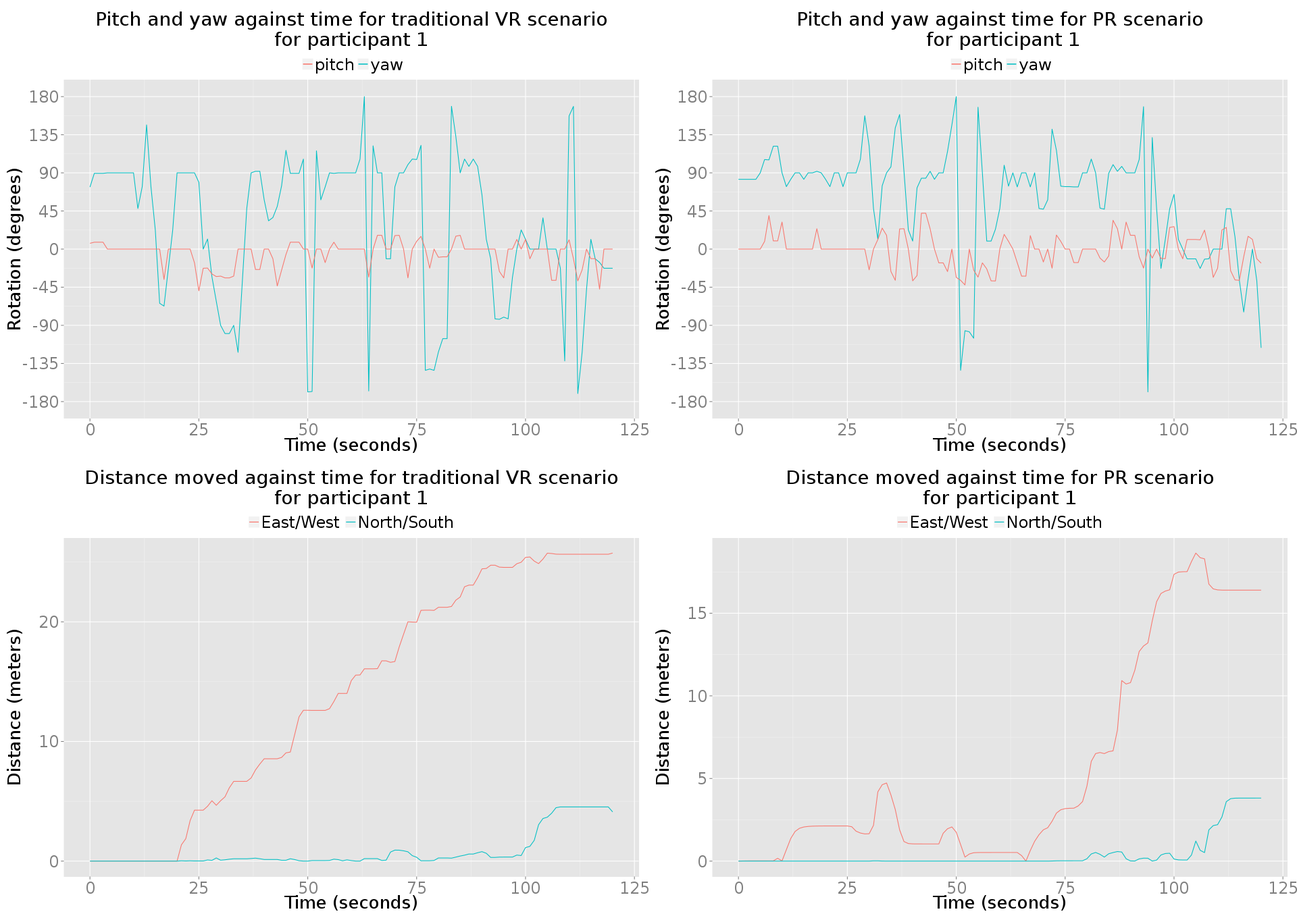
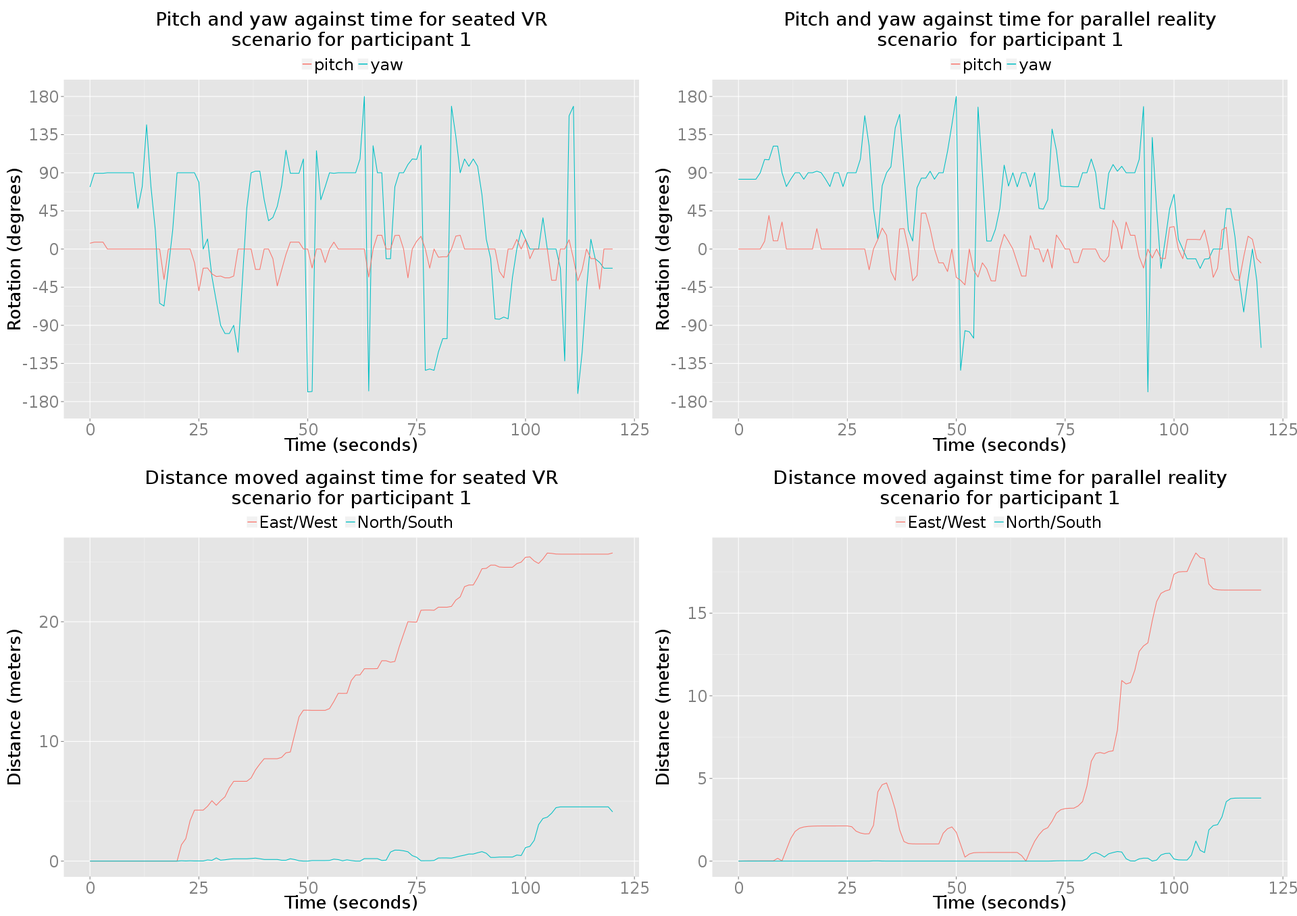
Red pen edits to end of chapter 5.

diff --git a/06_mirrorshades_studies_results/mirrorshades_studies_results.tex b/06_mirrorshades_studies_results/mirrorshades_studies_results.tex
@@ -191,18 +191,18 @@ With regards to movement in the parallel reality scenario, the accuracy and espe
 
 \subsection{Log Data}
 
-For the traditional VR scenario log data were recorded while each participant was engaging with the VR chapel in a seated position and using the Xbox controller to navigate the VR environment. For the parallel reality scenario log data were recorded throughout the whole scenario, such that data are available for both the periods in which participants were observing the RW chapel via the DK1 and cameras in addition to the periods in which participants were observing the VR chapel. As such, several comparisons can be made between these sets of data in addition to considering the data as a whole. Within the parallel reality scenario, comparisons can be made between the periods that participants were observing RW and the periods that participants were observing VR. Between the traditional VR scenario and the parallel reality scenario, comparisons can be made between the VR section of the traditional VR scenario and the periods that participants were observing VR in the parallel reality scenario. Log data were not captured for participant 2, nor were they captured for the traditional VR scenario for participant 5.
+For the seated VR scenario log data were recorded while each participant was engaging with the VR chapel in the seated position and using the Xbox controller to navigate the VR environment. For the parallel reality scenario log data were recorded throughout the whole scenario, such that data are available for both the periods in which they were observing the RW chapel via the DK1 and cameras in addition to the periods in which participants were observing the VR chapel. As such, several comparisons can be made between these sets of data in addition to considering the data as a whole. Within the parallel reality scenario, comparisons can be made between the periods that participants were observing RW and the periods that they were observing VR. Between the seated VR scenario and the parallel reality scenario, comparisons can be made between the VR section of the seated VR scenario and the periods that participants were observing VR in the parallel reality scenario. Log data were not captured for participant 2, nor were they captured for the seated VR scenario for participant 5.
 
 %It was expected that the cumbersome nature of the parallel reality scenario in terms of the hardware that needed to be carried by the participant and the reduced quality of viewing the RW environment via the cameras would have a noticeable restrictive effect upon participants' movement (both in terms of their position and the orientation of their head) in the parallel reality scenario compared to the VR section of the traditional VR scenario, which would be evident from these log data.
 
 \subsubsection{Comparing traditional and parallel reality scenarios}
 
-When looking at either scenario's data (the VR section of the traditional VR scenario and both RW and VR periods of the parallel reality scenario) it is immediately evident that participants looked to their sides and turned their heads horizontally (yaw) far more than they looked above and beneath themselves by tilting their heads vertically (pitch). This relationship is shown in figures \ref{1_pitch_yaw_2up.png}, \ref{4_pitch_yaw_2up.png} and \ref{6_pitch_yaw_2up.png}, which show pitch and yaw plotted against time for both the traditional VR scenario and the parallel reality scenario, for participants 1, 4 and 6 respectively. With the traditional VR scenario on the left of each pair of plots and the parallel reality scenario on the right, the displacement of the blue line representing yaw is substantially greater in both than the displacement of the red line representing yaw.
+When looking at either scenario's data (the VR section of the seated VR scenario and both RW and VR periods of the parallel reality scenario) it is immediately evident that participants looked to their sides and turned their heads horizontally (yaw) far more than they looked above and beneath themselves by tilting their heads vertically (pitch). This relationship is shown in figures \ref{1_pitch_yaw_2up.png}, \ref{4_pitch_yaw_2up.png} and \ref{6_pitch_yaw_2up.png}, which show pitch and yaw plotted against time for both the seated VR scenario and the parallel reality scenario, for participants 1, 4 and 6 respectively. With the seated VR scenario on the left of each pair of plots and the parallel reality scenario on the right, the displacement of the blue line representing yaw is substantially greater in both than the displacement of the red line representing yaw.
 
 \begin{figure}
 	\begin{center}
 	\includegraphics[width=\textwidth]{1/1_pitch_yaw_2up.png}
-	\caption{Pitch and yaw against time for participant 1 in traditional VR and parallel reality scenarios.}
+	\caption{Pitch and yaw against time for participant 1 in seated VR and parallel reality scenarios.}
 	\label{1_pitch_yaw_2up.png}
 	\end{center}
 \end{figure}
@@ -210,7 +210,7 @@ When looking at either scenario's data (the VR section of the traditional VR sce
 \begin{figure}
 	\begin{center}
 	\includegraphics[width=\textwidth]{1/4_pitch_yaw_2up.png}
-	\caption{Pitch and yaw against time for participant 4 in traditional VR and parallel reality scenarios.}
+	\caption{Pitch and yaw against time for participant 4 in seated VR and parallel reality scenarios.}
 	\label{4_pitch_yaw_2up.png}
 	\end{center}
 \end{figure}
@@ -218,12 +218,12 @@ When looking at either scenario's data (the VR section of the traditional VR sce
 \begin{figure}
 	\begin{center}
 	\includegraphics[width=\textwidth]{1/6_pitch_yaw_2up.png}
-	\caption{Pitch and yaw against time for participant 6 in traditional VR and parallel reality scenarios.}
+	\caption{Pitch and yaw against time for participant 6 in seated VR and parallel reality scenarios.}
 	\label{6_pitch_yaw_2up.png}
 	\end{center}
 \end{figure}
 
-This relationship is reflected in calculations of the standard deviation in pitch and yaw across both scenarios, shown by table \ref{sdpitchyawtrad} for the traditional VR scenario and table \ref{sdpitchyawpr} for the parallel reality scenario. For every participant for which the data are available, the standard deviation in yaw is substantially higher than that in pitch. This relationship can largely be explained by the simple fact that there is more to observe in the chapel(s) at ground level than above eye level or down at the ground, however with the marked difference in the appearance of the chapel roof (stone in the VR reconstruction, wood in the RW chapel today) a smaller difference between pitch and yaw variance might have been expected for both scenarios.
+This relationship is reflected in calculations of the standard deviation in pitch and yaw across both scenarios, shown by table \ref{sdpitchyawtrad} for the seated VR scenario and table \ref{sdpitchyawpr} for the parallel reality scenario. For every participant for which the data are available, the standard deviation in yaw is substantially higher than that in pitch. This relationship can largely be explained by the simple fact that there is more to observe in the chapel(s) at ground level than above eye level or down at the ground, however with the marked difference in the appearance of the chapel roof (stone in the VR reconstruction, wood in the RW chapel today) a smaller difference between pitch and yaw variance might have been expected for both scenarios.
 
 \begin{table}
 \begin{center}
@@ -248,7 +248,7 @@ This relationship is reflected in calculations of the standard deviation in pitc
 
 \bottomrule
 \end{tabularx}
-\caption{Standard deviation in pitch and yaw for traditional VR scenario.}
+\caption{Standard deviation in pitch and yaw for seated VR scenario.}
 \label{sdpitchyawtrad}
 \end{center}
 \end{minipage}
@@ -287,11 +287,11 @@ This relationship is reflected in calculations of the standard deviation in pitc
 
 %=====================
 
-When studying plots of head pitch and yaw against time aligned with plots of distance moved against time, some participants display an aversion to large head movements while moving. Considering participant 1 (figure \ref{1_4up.png}), they seem to have been quite comfortable looking around a lot even while moving in the traditional VR scenario, while in the parallel reality scenario their large head movements are close to the periods in which their position was not changing as much\footnote{When looking at these plots it is important to appreciate that lag in the IndoorAtlas data results in a small lateral offset between the position data and the head orientation data, as the latter is unaffected by the lag in the correct reporting and `settling' of the former.}. When looking at the same data plotted for participant 3 however (figure \ref{3_4up.png}), it seems that they were reluctant to perform large head movements while moving in both scenarios, rather than just the parallel reality scenario.
+When studying plots of head pitch and yaw against time aligned with plots of distance moved against time, some participants display an aversion to large head movements while moving. Considering participant 1 (figure \ref{1_4up.png}), they seem to have been quite comfortable looking around a lot even while moving in the seated VR scenario, while in the parallel reality scenario their large head movements are close to the periods in which their position was not changing as much\footnote{When looking at these plots it is important to appreciate that lag in the IndoorAtlas data results in a small lateral offset between the position data and the head orientation data, as the latter is unaffected by the lag in the correct reporting and `settling' of the former.}. When looking at the same data plotted for participant 3 however (figure \ref{3_4up.png}), it seems that they were reluctant to perform large head movements while moving in both scenarios, rather than just the parallel reality scenario.
 
-Reluctance to changing head orientation when moving in the traditional VR scenario can be explained by something as simple as participant 1 having more experience with video games that present the user with a `first person' perspective in which movement and looking direction are controlled independently. For somebody familiar with this style of control, it is second nature to use one control to change their position whilst simultaneously using another control to change the direction in which they are looking, however for those unfamiliar or inexperienced with such scenarios it is common to observe alternation between movement and looking, something that the OVW group has observed in people interacting with virtual content at various demonstrations using keyboard and mouse, Xbox controller and other control methodologies. For first person shooter (FPS) video games, this simultaneous independent control of head and body is commonly achieved by using keyboard buttons to control body movement while using a mouse to control looking direction or the two separate control sticks of a controller such as an Xbox controller; with the traditional VR scenario, the Xbox controller provides control over movement while the head tracker in the DK1 provides control over looking direction by tracking head orientation.
+Reluctance to changing head orientation when moving in the seated VR scenario can possibly be explained by something as simple as participant 1 having more experience with video games that present the user with a `first person' perspective in which movement and looking direction are controlled independently. For somebody familiar with this style of control, it is second nature to use one control to change their position whilst simultaneously using another control to change the direction in which they are looking, however for those unfamiliar or inexperienced with such scenarios it is common to observe alternation between movement and looking, something that the OVW group has observed in people interacting with virtual content at various demonstrations using keyboard and mouse, Xbox controller and other control methodologies. For first person shooter (FPS) video games, this simultaneous independent control of head and body is commonly achieved by using keyboard buttons to control body movement while using a mouse to control looking direction, or by using the two separate control sticks of a controller such as an Xbox controller. With the seated VR scenario, the Xbox controller provides control over movement while the head tracker in the DK1 provides control over looking direction by tracking head orientation.
 
-Reluctance to changing head orientation when moving in the parallel reality scenario is most logically explained by participants feeling as though with the reduced visual acuity of their RW environment and the discrepancy in position and environmental objects of their VR environment that they needed to pay more conscious attention to their walking, lest they lose their footing. Upon reaching a location of particular interest and standing still, their willingness to perform larger head movements returns.
+Reluctance to changing head orientation when moving in the parallel reality scenario is most logically explained by participants feeling as though with the reduced visual acuity of their RW environment and the discrepancy in position and environmental objects of their VR environment that they needed to pay more conscious attention to their walking, lest they lose their footing. Upon reaching a location of particular interest and standing still, their willingness to perform larger head movements returns as they no longer have to contend with obstacle avoidance.
 
 \begin{figure}
 	\begin{center}
@@ -311,7 +311,7 @@ Reluctance to changing head orientation when moving in the parallel reality scen
 
 \subsubsection{Comparing RW and VR periods within parallel reality scenario}
 
-When comparing pitch and yaw data between the RW and VR periods within the parallel reality scenario, it is notable that for some participants there was more variance in the periods in which they were perceiving VR stimuli than in those in which they were perceiving RW stimuli, meaning that they turned their head more when looking at the VR environment than when looking at the RW environment. This is particularly evident when plotting these pitch and yaw data against time with the periods of RW/VR indicated. Figure \ref{1_pitch_yaw.png} shows the pitch and yaw data for participant 1 during the parallel reality scenario, who prominently displayed this tendency toward greater head movement while viewing VR than RW. The coloured background of the plot indicates which environment the participant was perceiving at that time index; blue for RW and green for VR. Correlation is evident between the most pronounced changes in yaw (red line) and the periods that the participant was observing VR stimuli (green background).
+When comparing pitch and yaw data between the RW and VR periods within the parallel reality scenario, it is notable that for some participants there was more variance in the periods in which they were perceiving VR stimuli than in those in which they were perceiving RW stimuli, meaning that they turned their heads more when looking at the VR environment than when looking at the RW environment. This is particularly evident when plotting these pitch and yaw data against time with the periods of RW/VR indicated. Figure \ref{1_pitch_yaw.png} shows the pitch and yaw data for participant 1 during the parallel reality scenario, who prominently displayed this tendency toward greater head movement while viewing VR than RW. The coloured background of the plot indicates which environment the participant was perceiving at that time index; blue for RW and green for VR. Correlation is evident between the most pronounced changes in yaw (red line) and the periods that the participant was observing VR stimuli (green background). As can be seen in figure \ref{3_pitch_yaw.png} this relationship is even more prevalent in the data from participant 3, while the data from participant 5 in figure \ref{5_pitch_yaw.png} still show the relationship but to a lesser extent.
 
 \begin{figure}[h]
 	\begin{center}
@@ -320,8 +320,6 @@ When comparing pitch and yaw data between the RW and VR periods within the paral
 	\label{1_pitch_yaw.png}
 	\end{center}
 \end{figure}
-
-As can be seen in figure \ref{3_pitch_yaw.png} this relationship is even more prevalent in the data from participant 3, while the data from participant 5 in figure \ref{5_pitch_yaw.png} still show the relationship but to a lesser extent.
 
 \begin{figure}[h]
 	\begin{center}
@@ -339,7 +337,7 @@ As can be seen in figure \ref{3_pitch_yaw.png} this relationship is even more pr
 	\end{center}
 \end{figure}
 
-Calculating the mean standard deviation in yaw for both RW and VR periods, weighted by the duration of the periods, shows this relationship more analytically. With reference to the figures in table \ref{sdyawtab} the mean standard deviation in yaw while perceiving VR stimuli is higher than while perceiving RW stimuli for participant 1 (39.887\textdegree\ compared to 25.545\textdegree) and even more so for participant 3 (60.636\textdegree\ compared to 11.702\textdegree). The values are closer for participant 5, due to the initial large delta in yaw just before the first transition into VR at around 130 seconds. Recalculating the weighted mean standard deviation from 150 seconds onwards to exclude this peak gives rise to the values of 36.074\textdegree\ for VR stimuli compared to 17.046\textdegree\ for RW stimuli, which is more in fitting with the impressions drawn from studying figure \ref{5_pitch_yaw.png}. The exception to this observation is participant 4, however this participant displayed very restricted head movement throughout both scenarios when compared to all of the other participants.
+Calculating the mean standard deviation in yaw for both RW and VR periods, weighted by the duration of the periods, shows this relationship more analytically. With reference to the figures in table \ref{sdyawtab} the mean standard deviation in yaw while perceiving VR stimuli is higher than while perceiving RW stimuli for participant 1 (39.887\textdegree\ compared to 25.545\textdegree) and even more so for participant 3 (60.636\textdegree\ compared to 11.702\textdegree). The values are closer for participant 5, due to the initial large delta in yaw just before the first transition into VR at around 130 seconds. Recalculating the weighted mean standard deviation from 150 seconds onwards to exclude this peak gives rise to the values of 36.074\textdegree\ for VR stimuli compared to 17.046\textdegree\ for RW stimuli, which is more in fitting with the impressions drawn from studying figure \ref{5_pitch_yaw.png}. The exception to this observation of correlation between head movement and environment is participant 4, however this participant displayed very restricted head movement throughout both scenarios when compared to all of the other participants.
 
 \begin{table}
 \begin{center}
@@ -401,23 +399,23 @@ Calculating the mean standard deviation in yaw for both RW and VR periods, weigh
 \end{center}
 \end{table}
 
-Also, when considering the amount of time spent perceiving each environment in the parallel reality scenario, several of the participants showed frequent transitioning behaviour, where they would perform many transitions and remain perceiving the visual stimuli from each environment for only a few seconds: for participants 1, 4 and 6, the mean times for both RW and VR periods are all between 1.68 and 3.4 seconds. Participant 3 spent longer perceiving each environment with a RW mean of 18.2 seconds and a VR mean of 7 seconds. The outlier is participant 5, with a RW mean of 31.8 seconds and a VR mean of 3.6 seconds; this was the participant who found it uncomfortable to walk while wearing the DK1, so a much longer amount of time spent perceiving RW stimuli is understandable.
+When considering the amount of time spent perceiving each environment in the parallel reality scenario, several of the participants showed frequent transitioning behaviour where they would perform many transitions and remain perceiving the visual stimuli from each environment for only a few seconds: for participants 1, 4 and 6, the mean times for both RW and VR periods are all between 1.68 and 3.4 seconds. Participant 3 spent longer perceiving each environment with a RW mean of 18.2 seconds and a VR mean of 7 seconds. The outlier is participant 5, with a RW mean of 31.8 seconds and a VR mean of 3.6 seconds; this was the participant who found it uncomfortable to walk while wearing the DK1, so a much longer amount of time spent perceiving RW stimuli is understandable.
 
-\subsubsection{Comparing VR periods of parallel reality scenario to VR section of traditional VR scenario}
+\subsubsection{Comparing VR periods of parallel reality scenario to VR section of seated VR scenario}
 
-Comparing yaw from the VR periods of the parallel reality scenario (table \ref{sdyawtab}) against yaw from the traditional VR scenario (table \ref{sdpitchyawtrad}) it can be seen that in most cases there is a noticeably less yaw change in the VR periods of the parallel reality scenario than in the traditional VR scenario, leading to the conclusion that participants felt more comfortable to perform larger head movements when seated with the DK1 than when standing/walking with the DK1. Observations of participants while they performed the traditional VR scenario support this conclusion with several participants twisting their heads right around to look behind them without changing their direction of their virtual `movement', while when walking in the parallel reality scenario they tended to largely look ahead and perform larger orientation changes by instead turning their whole body before walking in the return direction.
+Comparing yaw from the VR periods of the parallel reality scenario (table \ref{sdyawtab}) against yaw from the seated VR scenario (table \ref{sdpitchyawtrad}) it can be seen that in most cases there is noticeably less yaw change in the VR periods of the parallel reality scenario than in the seated VR scenario, indicating that participants felt more comfortable to perform larger head movements when seated with the DK1 than when standing/walking with it. Observations of participants while they performed the seated VR scenario support this conclusion with several participants twisting their heads right around to look behind them without changing their direction of their virtual `movement', while when walking in the parallel reality scenario participants tended to largely look ahead in the direction their body was facing, performing larger orientation changes by instead turning their whole body before walking in the return direction. As participants were restricted from reorienting their physical body during the VR section of the seated VR scenario (their chair did not swivel) this combined with participants dislike to turning their virtual body with the controller's stick explains why they might perform much larger head movements.
 
-Further comparing head movements between the VR section of the traditional VR scenario and the VR periods of the parallel reality scenario, the difference between the magnitude of pitch and yaw is greater in the VR section of the traditional VR scenario than in the VR periods of the parallel reality scenario. Comparing these values from tables \ref{sdpitchyawtrad}, \ref{sdpitchyawpr} and \ref{sdpitchyawtrad} this difference exhibits as smaller variance in yaw and roughly unchanged (only slightly increased) variance in pitch for the VR periods of the parallel reality scenario, further indicating that participants were more comfortable to look around themselves more freely in the traditional VR scenario than the parallel reality scenario, leading to less overall head movement in the parallel reality scenario than the traditional VR scenario.
+Further comparing head movements between the VR section of the seated VR scenario and the VR periods of the parallel reality scenario, the difference between the magnitude of pitch and yaw is greater in the VR section of the seated VR scenario than in the VR periods of the parallel reality scenario. Comparing these values from tables \ref{sdpitchyawtrad}, \ref{sdpitchtab} and \ref{sdyawtab} this difference exhibits as smaller variance in yaw and roughly unchanged (only slightly increased) variance in pitch for the VR periods of the parallel reality scenario, further indicating that participants were more comfortable to look around themselves more freely in the seated VR scenario than in the parallel reality scenario, leading to less overall head movement in the parallel reality scenario than the seated VR scenario.
 
 %=========================================================================================================
 
 \section{Summary}
 
-This first stage of evaluation directly compared a traditional scenario in which VR has typically been used at cultural heritage sites with the new style of interaction afforded by the Mirrorshades platform, addressing both temporal and spatial separation between experience of the real and virtual environments. Through this evaluation the Mirrorshades platform has shown itself to be a rewarding new modality for experiencing VR content in a cultural heritage context, improving upon traditional techniques employed for the presentation of such content by allowing immediate comparison and contrast between corresponding vantage points in both the RW and VR environments, successfully addressing the problem of on-site comparison of real and virtual environments.
+The first stage of investigation directly compared a seated VR scenario in which VR content has already begun to be used at cultural heritage sites with the mobile style of interaction afforded by the Mirrorshades platform, addressing both temporal and spatial separation between experience of the real and virtual environments. The Mirrorshades platform has shown itself to be a rewarding new modality for experiencing VR content in a cultural heritage context, improving upon seated VR techniques employable for the presentation of the same content by allowing immediate comparison and contrast between corresponding vantage points in both the RW and VR environments, successfully addressing the hindrance of on-site comparison of real and virtual environments.
 
-Through questionnaire data and interview transcripts participants reported that they found the parallel reality scenario to be both more enjoyable and more rewarding than the traditional VR scenario, despite the decreased usability and comfort effected by the requirement to don and carry a satchel of hardware and hold devices in both hands. The parallel reality scenario was reported as allowing easier comparison and contrast between RW and VR environments, leading participants to recognise more differences between the two environments and leading to a greater change in and better understanding of the chapel than with the traditional VR scenario. The visual acuity afforded by the cameras and both the accuracy and lag of the IPS surfaced as the major detractors to the experience of the parallel reality scenario.
+Through questionnaire data and interview transcripts participants reported that overall they found the parallel reality scenario to be both more enjoyable and more rewarding than the seated VR scenario, despite the decreased usability and comfort effected by the requirement to don and carry a satchel of hardware and hold devices in both hands. The parallel reality scenario was reported as allowing easier comparison and contrast between RW and VR environments, leading participants to recognise more differences between the two environments and leading to a greater change in and better understanding of the chapel than with the seated VR scenario. The visual acuity afforded by the cameras and both the accuracy and lag of the IPS surfaced as the major detractors to the experience of the parallel reality scenario.
 
-From the log data, participants displayed restricted head movement throughout the parallel reality scenario, looking to their sides and above and beneath themselves less when experiencing the VR chapel in the parallel reality scenario than when experiencing the VR chapel in the traditional VR scenario. While this restriction does not appear to have been so great that it reduced the utility and enjoyability of the parallel reality scenario to beneath that of the traditional VR scenario, it has been observed by other researchers~\cite{Slater1998} that there is a significant positive association between reported sense of presence in a VR environment and the amount of body movement, particularly head yaw, displayed by a participant, so reducing the negative impact that a parallel reality system has upon a user's willingness to freely look around them will likely result in beneficial returns, especially when considering that restricted head movement may lead to overlooking interesting aspects of the parallel environments.
+Log data show participants displaying restricted head movement throughout the parallel reality scenario, looking to their sides and above and beneath themselves less when experiencing the VR chapel in the parallel reality scenario than when experiencing the VR chapel in the seated VR scenario. While this restriction does not appear to have been so great that it reduced the utility and enjoyability of the parallel reality scenario to beneath that of the traditional VR scenario, it has been observed by prior investigations~\cite{Slater1998} that there is a significant positive association between reported sense of presence in a VR environment and the amount of body movement, particularly head yaw, displayed by a participant, so reducing the negative impact that a parallel reality system has upon a user's willingness to freely look around them will likely result in beneficial returns, especially when considering that restricted head movement may lead to overlooking interesting aspects of \textit{the both} parallel environments.
 
 %=========================================================================================================
 %=========================================================================================================
